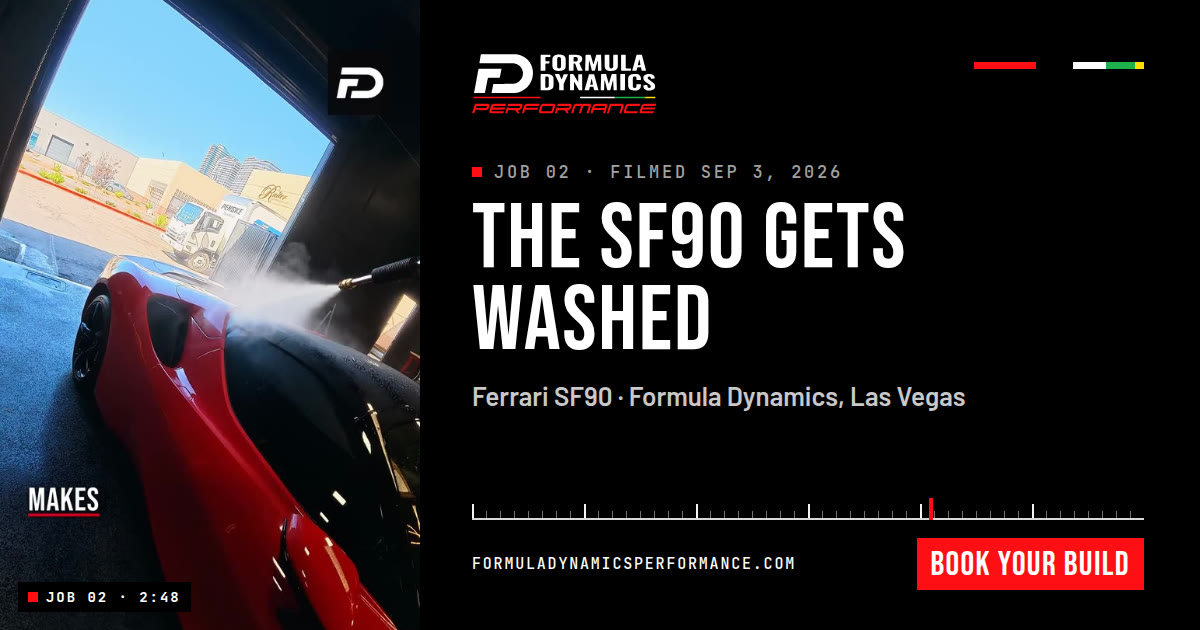
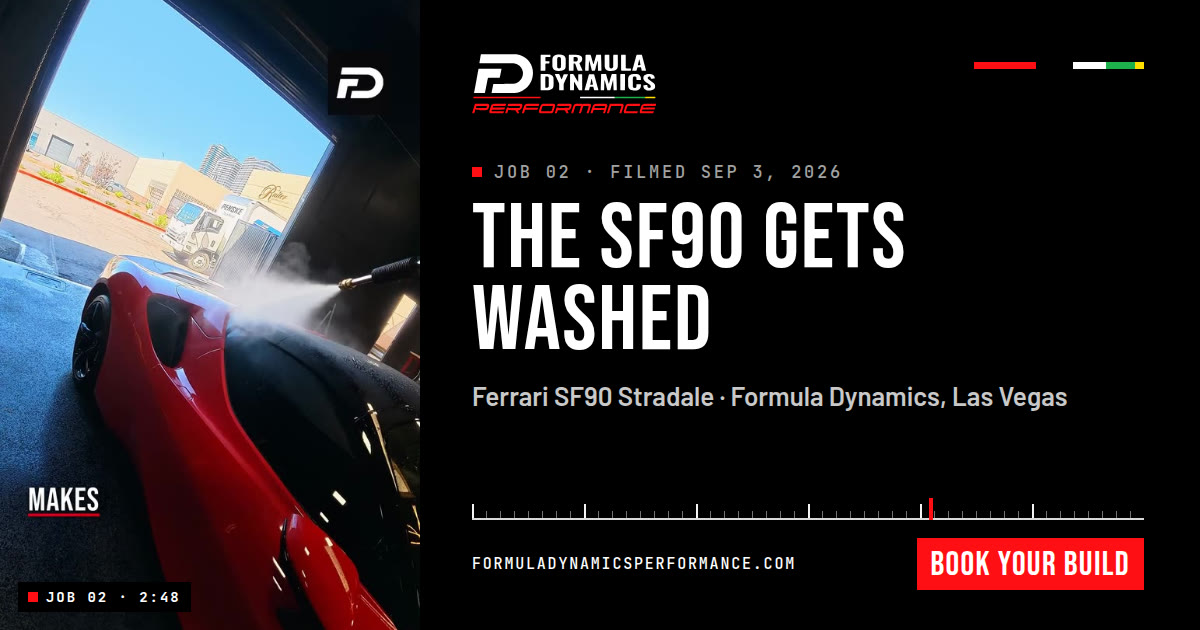
FD site: apply facts-floor fixes
- Job 06 summary: the taillights, OPF and factory exhaust work is on the F8 Spider, not the MC20
- Aventador ad: 'Lamborghini Aventador' (the frames don't confirm an S)
- Hero and meta: the filmed install is a Valvetronic valve controller on an F8 Spider, bumper off to test drive
- 'On the lift now' becomes 'Latest job' (no present-tense claim)
- Job 02 car is the SF90 Stradale (lower third); 'at our Las Vegas shop', since some footage is outside
- Share pages regenerated

Claude-Session: https://claude.ai/code/session_012ganLeoor9XkY3vQKz1FFQ

Changed region(s): [[0.4933, 0.6032, 0.8942, 0.6635]]

diff --git a/formula-dynamics/16-website/index.html b/formula-dynamics/16-website/index.html
@@ -4,19 +4,19 @@
 <meta charset="utf-8">
 <meta name="viewport" content="width=device-width,initial-scale=1,viewport-fit=cover">
 <title>Formula Dynamics · The Job Board · Las Vegas</title>
-<meta name="description" content="Watch an exhaust install in our Las Vegas shop from the first bolt to the test drive, or follow a tune or a lowering job, then book the same work for your car. Exotic and European performance specialists.">
+<meta name="description" content="Watch a Valvetronic valve controller go into a Ferrari F8 Spider at our Las Vegas shop, from bumper off to the test drive, or follow a tune or a lowering job in the bay, then book the same work for your car. Exotic and European performance specialists.">
 <link rel="canonical" href="https://formula-dynamics-job-board.onrender.com/">
 <meta property="og:type" content="website">
 <meta property="og:site_name" content="Formula Dynamics">
 <meta property="og:url" content="https://formula-dynamics-job-board.onrender.com/">
 <meta property="og:title" content="The Job Board · Formula Dynamics, Las Vegas">
-<meta property="og:description" content="Twelve jobs filmed in our Las Vegas shop. Watch the work, then book your build.">
+<meta property="og:description" content="Twelve jobs filmed at our Las Vegas shop. Watch the work, then book your build.">
 <meta property="og:image" content="https://formula-dynamics-job-board.onrender.com/media/share/series.jpg">
 <meta property="og:image:width" content="1200">
 <meta property="og:image:height" content="630">
 <meta name="twitter:card" content="summary_large_image">
 <meta name="twitter:title" content="The Job Board · Formula Dynamics, Las Vegas">
-<meta name="twitter:description" content="Twelve jobs filmed in our Las Vegas shop. Watch the work, then book your build.">
+<meta name="twitter:description" content="Twelve jobs filmed at our Las Vegas shop. Watch the work, then book your build.">
 <meta name="twitter:image" content="https://formula-dynamics-job-board.onrender.com/media/share/series.jpg">
 <meta name="theme-color" content="#000000">
 <link rel="icon" type="image/png" href="media/brand/icon-64.png">
@@ -658,7 +658,7 @@ footer ul a:hover{color:var(--red)}
       <div class="eyebrow"><span class="sq"></span>Exotic &amp; European performance specialists · Las Vegas</div>
       <h1 class="kin" id="hero-h">See the work <br>before you <br>book it</h1>
       <div class="bar" aria-hidden="true"></div>
-      <p>We film the jobs in our Las Vegas shop. Watch an exhaust install from the first bolt to the test drive, or follow a tune or a lowering job in the bay, then book the same work for your car.</p>
+      <p>We film the jobs at our Las Vegas shop. Watch a Valvetronic valve controller go into a Ferrari F8 Spider, from bumper off to the test drive, or follow a tune or a lowering job in the bay, then book the same work for your car.</p>
       <div class="ctas">
         <a class="btn" href="#book">Book your build</a>
         <a class="btn ghost" href="#watch-valve2" data-ep="latest"><svg viewBox="0 0 16 16"><path d="M4 2.5v11L13.5 8z"/></svg><span id="hero-watch">Watch job 12</span></a>
@@ -679,7 +679,7 @@ footer ul a:hover{color:var(--red)}
           <img id="lift-img" src="media/ep/valve2.jpg" alt="The blue Ferrari F8 Spider outside the shop, from Job 12">
           <video id="lift-vid" muted loop playsinline preload="none" aria-hidden="true"></video>
           <button class="play" type="button" data-ep="latest" aria-label="Play job 12, the full episode"><svg viewBox="0 0 16 16"><path d="M4 2.5v11L13.5 8z"/></svg></button>
-          <div class="onlift"><span class="sq"></span><span id="onlift">On the lift now · Job 12</span></div>
+          <div class="onlift"><span class="sq"></span><span id="onlift">Latest job · Job 12</span></div>
         </div>
       </div>
       <a class="tag" id="lift-tag" href="#watch-valve2" data-ep="latest"><small id="tag-s">JOB 12 · SEP 18 · 2:44</small><b id="tag-b">Ferrari F8</b><span id="tag-t">Valvetronic, part 2: the fix and the drive</span></a>
@@ -898,11 +898,11 @@ footer ul a:hover{color:var(--red)}
 {
 "EP":[
  {"k":"floor","no":"01","d":"Sep 1","car":"The new shop","t":"The floor goes down","len":"2:53","sec":173,"lane":"shop","tags":["Shop build"],"work":"The new shop floor","s":"The new shop's floor goes down tile by tile in red and black, then the lifts go in on top of it.","alt":"Scissor lifts on the new red and black floor","ch":[[2,"Wash bay done"],[22,"Tiles go down"],[40,"Laying the pattern"],[65,"The finished floor"],[84,"Lifts going in"],[109,"The lift is up"],[150,"Next: light tunnels"]]},
- {"k":"sf90","no":"02","d":"Sep 3","car":"Ferrari SF90","t":"The SF90 gets washed","len":"2:48","sec":168,"lane":"detail","tags":["Detail"],"work":"Wash","s":"A ceramic-coated SF90 washed in the new bay, then an Aston Martin V12 Vantage comes off the transporter.","alt":"Red Ferrari SF90 being rinsed in the bay","ch":[[3,"First wash setup"],[53,"Washing the SF90"],[93,"Ceramic makes it easy"],[120,"SF90 clean"],[137,"On the lift"],[142,"Aston delivery"],[164,"Off the ramps"]]},
+ {"k":"sf90","no":"02","d":"Sep 3","car":"Ferrari SF90 Stradale","t":"The SF90 gets washed","len":"2:48","sec":168,"lane":"detail","tags":["Detail"],"work":"Wash","s":"A ceramic-coated SF90 washed in the new bay, then an Aston Martin V12 Vantage comes off the transporter.","alt":"Red Ferrari SF90 being rinsed in the bay","ch":[[3,"First wash setup"],[53,"Washing the SF90"],[93,"Ceramic makes it easy"],[120,"SF90 clean"],[137,"On the lift"],[142,"Aston delivery"],[164,"Off the ramps"]]},
  {"k":"tune","no":"03","d":"Sep 4","car":"On the bench","t":"Wiring the tune","len":"2:48","sec":168,"lane":"tune","tags":["Tuning"],"work":"ECU harness","s":"An ECU harness wired and pinned by color at the bench, with a shop update on the way.","alt":"Technician holding an ECU at the bench","ch":[[3,"Detail cart"],[40,"Shop update"],[78,"At the bench"],[96,"Pinning by color"],[141,"In the bay"],[149,"On the limiter"],[164,"That feels insane"]]},
  {"k":"movein","no":"04","d":"Sep 5","car":"The new shop","t":"Moving everything in","len":"2:49","sec":169,"lane":"shop","tags":["Shop build"],"work":"Move-in day","s":"Inventory day: pallets on the forklift, the wall cleared and the racking going up.","alt":"Forklift moving pallets in the new shop","ch":[[3,"Inventory day"],[55,"On the forklift"],[78,"Moving pallets"],[110,"Clearing the wall"],[123,"Break"],[135,"Racking goes up"],[156,"Everything in"]]},
  {"k":"inventory","no":"05","d":"Sep 6","car":"The new shop","t":"Clearing the inventory","len":"2:50","sec":170,"lane":"shop","tags":["Shop build"],"work":"Racks and desks","s":"Cars keep getting worked on while the big racks and the desks go in and the inventory gets cleared.","alt":"Racks going up in the new shop","ch":[[3,"Shop update"],[20,"Working on cars"],[42,"The big racks"],[59,"Desks going in"],[98,"Clearing inventory"],[126,"Racks built"],[151,"Bay access"]]},
- {"k":"mc20","no":"06","d":"Sep 8","car":"MC20 + F8","t":"Unlocking the MC20","len":"2:49","sec":169,"lane":"tune","tags":["Tuning","Exhaust"],"work":"ECU and exhaust","s":"MC20 ECU work, the taillights and the OPF out, the factory exhaust off, and the iPE titanium on the floor.","alt":"Gold heat-wrapped iPE exhaust pieces on the floor","ch":[[3,"MC20 ECU"],[24,"Cracking the code"],[50,"Battery and ECU"],[75,"Taillights out"],[90,"The OPF comes out"],[121,"Factory exhaust off"],[135,"iPE titanium"],[152,"PPF and new kit"]]},
+ {"k":"mc20","no":"06","d":"Sep 8","car":"MC20 + F8","t":"Unlocking the MC20","len":"2:49","sec":169,"lane":"tune","tags":["Tuning","Exhaust"],"work":"ECU and exhaust","s":"MC20 ECU work, then the F8 Spider's taillights and OPF out, its factory exhaust off, and the iPE titanium on the floor.","alt":"Gold heat-wrapped iPE exhaust pieces on the floor","ch":[[3,"MC20 ECU"],[24,"Cracking the code"],[50,"Battery and ECU"],[75,"Taillights out"],[90,"The OPF comes out"],[121,"Factory exhaust off"],[135,"iPE titanium"],[152,"PPF and new kit"]]},
  {"k":"rangerover","no":"07","d":"Sep 9","car":"Range Rover Sport","t":"Lowering the Range Rover","len":"2:47","sec":167,"lane":"susp","tags":["Suspension"],"work":"Lowering links","s":"Lowering links measured at the bench, the old links out, then the height sensors and the rear links. The job isn't finished by the end.","alt":"Lowering link measured against a tape","ch":[[3,"Shop update"],[9,"Lowering links"],[44,"Measuring"],[67,"Links out"],[102,"Height sensors"],[121,"Rear links"],[135,"Access height"],[159,"One inch lower"]]},
  {"k":"stage2","no":"08","d":"Sep 10","car":"F8 + MC20","t":"F8 iPE and MC20 Stage 2","len":"2:47","sec":167,"lane":"exhaust","tags":["Exhaust","Tuning"],"work":"Exhaust and tune","s":"Three cars in the bay: an Aston Martin V12 Vantage, the F8 Spider with its iPE exhaust and the MC20's Stage 2.","alt":"Maserati MC20 in the bay","ch":[[5,"V12 Vantage"],[36,"Ferrari F8 Spider"],[79,"Maserati MC20"]]},
  {"k":"detail","no":"09","d":"Sep 16","car":"Maserati MC20","t":"MC20 detail day","len":"1:57","sec":117,"lane":"detail","tags":["Detail"],"work":"Detail","s":"A matte MC20 foamed and washed by hand in the bay, then out to the transporter.","alt":"Maserati MC20 under wash foam","ch":[[1,"Detail day"]],"nochap":true},
@@ -947,7 +947,7 @@ footer ul a:hover{color:var(--red)}
 ],
 "CATS":[["all","All parts"],["exhaust","Exhaust"],["aero","Aero & exterior"],["suspension","Suspension"],["brakes","Brakes"],["wheels","Wheels"],["electronics","Electronics"],["service","Service parts"],["lighting","Lighting"],["conversion","Conversion"]],
 "ADS":[
- {"id":"aventador-tune","svc":"Free ECU tune with a RYFT or Opus exhaust","car":"Lamborghini Aventador S","menu":"tune"},
+ {"id":"aventador-tune","svc":"Free ECU tune with a RYFT or Opus exhaust","car":"Lamborghini Aventador","menu":"tune"},
  {"id":"roma-tune","svc":"Free ECU tune with a RYFT or Opus exhaust","car":"Ferrari Roma","menu":"tune"},
  {"id":"sf90-annual","svc":"Annual service package","car":"Ferrari SF90","menu":"maint"},
  {"id":"f296-oil","svc":"Oil service","car":"Ferrari 296","menu":"maint"},
@@ -1078,7 +1078,7 @@ $("#menu-x").onclick=closeMenu;$$("#menu a").forEach(a=>a.addEventListener("clic
 (function(){
   const lift=$("#lift"),e=LATEST;
   $("#hero-watch").textContent="Watch job "+e.no;
-  $("#onlift").textContent="On the lift now · Job "+e.no;
+  $("#onlift").textContent="Latest job · Job "+e.no;
   $("#tag-s").textContent=`JOB ${e.no} · ${e.d.toUpperCase()} · ${e.len}`;
   $("#tag-b").textContent=e.car.replace(" Spider","");$("#tag-t").textContent=e.t;
   $("#lift-img").src=M+"ep/"+e.k+".jpg";

diff --git a/formula-dynamics/16-website/ep/mc20/index.html b/formula-dynamics/16-website/ep/mc20/index.html
@@ -4,24 +4,24 @@
 <meta charset="utf-8">
 <meta name="viewport" content="width=device-width,initial-scale=1,viewport-fit=cover">
 <title>Job 06: Unlocking the MC20 · Formula Dynamics</title>
-<meta name="description" content="MC20 ECU work, the taillights and the OPF out, the factory exhaust off, and the iPE titanium on the floor. Full episode, 2:49, filmed Sep 8, 2026, in our Las Vegas shop.">
+<meta name="description" content="MC20 ECU work, then the F8 Spider&#x27;s taillights and OPF out, its factory exhaust off, and the iPE titanium on the floor. Full episode, 2:49, filmed Sep 8, 2026, at our Las Vegas shop.">
 <link rel="canonical" href="https://formula-dynamics-job-board.onrender.com/ep/mc20/">
 <meta property="og:type" content="video.episode">
 <meta property="og:site_name" content="Formula Dynamics">
 <meta property="og:url" content="https://formula-dynamics-job-board.onrender.com/ep/mc20/">
 <meta property="og:title" content="Job 06: Unlocking the MC20 · Formula Dynamics">
-<meta property="og:description" content="MC20 ECU work, the taillights and the OPF out, the factory exhaust off, and the iPE titanium on the floor. Full episode, 2:49, filmed Sep 8, 2026, in our Las Vegas shop.">
+<meta property="og:description" content="MC20 ECU work, then the F8 Spider&#x27;s taillights and OPF out, its factory exhaust off, and the iPE titanium on the floor. Full episode, 2:49, filmed Sep 8, 2026, at our Las Vegas shop.">
 <meta property="og:image" content="https://formula-dynamics-job-board.onrender.com/media/share/mc20.jpg">
 <meta property="og:image:width" content="1200">
 <meta property="og:image:height" content="630">
 <meta property="og:image:alt" content="Job 06 on the Formula Dynamics job board: Unlocking the MC20">
 <meta name="twitter:card" content="summary_large_image">
 <meta name="twitter:title" content="Job 06: Unlocking the MC20 · Formula Dynamics">
-<meta name="twitter:description" content="MC20 ECU work, the taillights and the OPF out, the factory exhaust off, and the iPE titanium on the floor. Full episode, 2:49, filmed Sep 8, 2026, in our Las Vegas shop.">
+<meta name="twitter:description" content="MC20 ECU work, then the F8 Spider&#x27;s taillights and OPF out, its factory exhaust off, and the iPE titanium on the floor. Full episode, 2:49, filmed Sep 8, 2026, at our Las Vegas shop.">
 <meta name="twitter:image" content="https://formula-dynamics-job-board.onrender.com/media/share/mc20.jpg">
 <meta name="theme-color" content="#000000">
 <link rel="icon" type="image/png" href="../../media/brand/icon-64.png">
-<script type="application/ld+json">{"@context": "https://schema.org", "@type": "VideoObject", "name": "Job 06: Unlocking the MC20", "description": "MC20 ECU work, the taillights and the OPF out, the factory exhaust off, and the iPE titanium on the floor.", "thumbnailUrl": ["https://formula-dynamics-job-board.onrender.com/media/ep/mc20.jpg", "https://formula-dynamics-job-board.onrender.com/media/share/mc20.jpg"], "uploadDate": "2026-09-08", "duration": "PT2M49S", "contentUrl": "https://formula-dynamics-job-board.onrender.com/media/ep/mc20.mp4", "embedUrl": "https://formula-dynamics-job-board.onrender.com/#watch-mc20", "publisher": {"@type": "Organization", "name": "Formula Dynamics Performance"}}</script>
+<script type="application/ld+json">{"@context": "https://schema.org", "@type": "VideoObject", "name": "Job 06: Unlocking the MC20", "description": "MC20 ECU work, then the F8 Spider's taillights and OPF out, its factory exhaust off, and the iPE titanium on the floor.", "thumbnailUrl": ["https://formula-dynamics-job-board.onrender.com/media/ep/mc20.jpg", "https://formula-dynamics-job-board.onrender.com/media/share/mc20.jpg"], "uploadDate": "2026-09-08", "duration": "PT2M49S", "contentUrl": "https://formula-dynamics-job-board.onrender.com/media/ep/mc20.mp4", "embedUrl": "https://formula-dynamics-job-board.onrender.com/#watch-mc20", "publisher": {"@type": "Organization", "name": "Formula Dynamics Performance"}}</script>
 <script>location.replace("../../#watch-mc20")</script>
 <meta http-equiv="refresh" content="1; url=../../#watch-mc20">
 <style>
@@ -40,7 +40,7 @@ a{display:inline-block;margin-top:14px;background:#FE0F13;color:#fff;text-decora
 <img src="../../media/ep/mc20.jpg" alt="">
 <small>Formula Dynamics · Job 06 of 12</small>
 <h1>Unlocking the MC20</h1>
-<p>MC20 ECU work, the taillights and the OPF out, the factory exhaust off, and the iPE titanium on the floor.</p>
+<p>MC20 ECU work, then the F8 Spider&#x27;s taillights and OPF out, its factory exhaust off, and the iPE titanium on the floor.</p>
 <a href="../../#watch-mc20">Watch the full episode</a>
 </main>
 </body>

diff --git a/formula-dynamics/16-website/ep/rangerover/index.html b/formula-dynamics/16-website/ep/rangerover/index.html
@@ -4,20 +4,20 @@
 <meta charset="utf-8">
 <meta name="viewport" content="width=device-width,initial-scale=1,viewport-fit=cover">
 <title>Job 07: Lowering the Range Rover · Formula Dynamics</title>
-<meta name="description" content="Lowering links measured at the bench, the old links out, then the height sensors and the rear links. The job isn&#x27;t finished by the end. Full episode, 2:47, filmed Sep 9, 2026, in our Las Vegas shop.">
+<meta name="description" content="Lowering links measured at the bench, the old links out, then the height sensors and the rear links. The job isn&#x27;t finished by the end. Full episode, 2:47, filmed Sep 9, 2026, at our Las Vegas shop.">
 <link rel="canonical" href="https://formula-dynamics-job-board.onrender.com/ep/rangerover/">
 <meta property="og:type" content="video.episode">
 <meta property="og:site_name" content="Formula Dynamics">
 <meta property="og:url" content="https://formula-dynamics-job-board.onrender.com/ep/rangerover/">
 <meta property="og:title" content="Job 07: Lowering the Range Rover · Formula Dynamics">
-<meta property="og:description" content="Lowering links measured at the bench, the old links out, then the height sensors and the rear links. The job isn&#x27;t finished by the end. Full episode, 2:47, filmed Sep 9, 2026, in our Las Vegas shop.">
+<meta property="og:description" content="Lowering links measured at the bench, the old links out, then the height sensors and the rear links. The job isn&#x27;t finished by the end. Full episode, 2:47, filmed Sep 9, 2026, at our Las Vegas shop.">
 <meta property="og:image" content="https://formula-dynamics-job-board.onrender.com/media/share/rangerover.jpg">
 <meta property="og:image:width" content="1200">
 <meta property="og:image:height" content="630">
 <meta property="og:image:alt" content="Job 07 on the Formula Dynamics job board: Lowering the Range Rover">
 <meta name="twitter:card" content="summary_large_image">
 <meta name="twitter:title" content="Job 07: Lowering the Range Rover · Formula Dynamics">
-<meta name="twitter:description" content="Lowering links measured at the bench, the old links out, then the height sensors and the rear links. The job isn&#x27;t finished by the end. Full episode, 2:47, filmed Sep 9, 2026, in our Las Vegas shop.">
+<meta name="twitter:description" content="Lowering links measured at the bench, the old links out, then the height sensors and the rear links. The job isn&#x27;t finished by the end. Full episode, 2:47, filmed Sep 9, 2026, at our Las Vegas shop.">
 <meta name="twitter:image" content="https://formula-dynamics-job-board.onrender.com/media/share/rangerover.jpg">
 <meta name="theme-color" content="#000000">
 <link rel="icon" type="image/png" href="../../media/brand/icon-64.png">

diff --git a/formula-dynamics/16-website/ep/stage2/index.html b/formula-dynamics/16-website/ep/stage2/index.html
@@ -4,20 +4,20 @@
 <meta charset="utf-8">
 <meta name="viewport" content="width=device-width,initial-scale=1,viewport-fit=cover">
 <title>Job 08: F8 iPE and MC20 Stage 2 · Formula Dynamics</title>
-<meta name="description" content="Three cars in the bay: an Aston Martin V12 Vantage, the F8 Spider with its iPE exhaust and the MC20&#x27;s Stage 2. Full episode, 2:47, filmed Sep 10, 2026, in our Las Vegas shop.">
+<meta name="description" content="Three cars in the bay: an Aston Martin V12 Vantage, the F8 Spider with its iPE exhaust and the MC20&#x27;s Stage 2. Full episode, 2:47, filmed Sep 10, 2026, at our Las Vegas shop.">
 <link rel="canonical" href="https://formula-dynamics-job-board.onrender.com/ep/stage2/">
 <meta property="og:type" content="video.episode">
 <meta property="og:site_name" content="Formula Dynamics">
 <meta property="og:url" content="https://formula-dynamics-job-board.onrender.com/ep/stage2/">
 <meta property="og:title" content="Job 08: F8 iPE and MC20 Stage 2 · Formula Dynamics">
-<meta property="og:description" content="Three cars in the bay: an Aston Martin V12 Vantage, the F8 Spider with its iPE exhaust and the MC20&#x27;s Stage 2. Full episode, 2:47, filmed Sep 10, 2026, in our Las Vegas shop.">
+<meta property="og:description" content="Three cars in the bay: an Aston Martin V12 Vantage, the F8 Spider with its iPE exhaust and the MC20&#x27;s Stage 2. Full episode, 2:47, filmed Sep 10, 2026, at our Las Vegas shop.">
 <meta property="og:image" content="https://formula-dynamics-job-board.onrender.com/media/share/stage2.jpg">
 <meta property="og:image:width" content="1200">
 <meta property="og:image:height" content="630">
 <meta property="og:image:alt" content="Job 08 on the Formula Dynamics job board: F8 iPE and MC20 Stage 2">
 <meta name="twitter:card" content="summary_large_image">
 <meta name="twitter:title" content="Job 08: F8 iPE and MC20 Stage 2 · Formula Dynamics">
-<meta name="twitter:description" content="Three cars in the bay: an Aston Martin V12 Vantage, the F8 Spider with its iPE exhaust and the MC20&#x27;s Stage 2. Full episode, 2:47, filmed Sep 10, 2026, in our Las Vegas shop.">
+<meta name="twitter:description" content="Three cars in the bay: an Aston Martin V12 Vantage, the F8 Spider with its iPE exhaust and the MC20&#x27;s Stage 2. Full episode, 2:47, filmed Sep 10, 2026, at our Las Vegas shop.">
 <meta name="twitter:image" content="https://formula-dynamics-job-board.onrender.com/media/share/stage2.jpg">
 <meta name="theme-color" content="#000000">
 <link rel="icon" type="image/png" href="../../media/brand/icon-64.png">

diff --git a/formula-dynamics/16-website/ep/sf90/index.html b/formula-dynamics/16-website/ep/sf90/index.html
@@ -4,20 +4,20 @@
 <meta charset="utf-8">
 <meta name="viewport" content="width=device-width,initial-scale=1,viewport-fit=cover">
 <title>Job 02: The SF90 gets washed · Formula Dynamics</title>
-<meta name="description" content="A ceramic-coated SF90 washed in the new bay, then an Aston Martin V12 Vantage comes off the transporter. Full episode, 2:48, filmed Sep 3, 2026, in our Las Vegas shop.">
+<meta name="description" content="A ceramic-coated SF90 washed in the new bay, then an Aston Martin V12 Vantage comes off the transporter. Full episode, 2:48, filmed Sep 3, 2026, at our Las Vegas shop.">
 <link rel="canonical" href="https://formula-dynamics-job-board.onrender.com/ep/sf90/">
 <meta property="og:type" content="video.episode">
 <meta property="og:site_name" content="Formula Dynamics">
 <meta property="og:url" content="https://formula-dynamics-job-board.onrender.com/ep/sf90/">
 <meta property="og:title" content="Job 02: The SF90 gets washed · Formula Dynamics">
-<meta property="og:description" content="A ceramic-coated SF90 washed in the new bay, then an Aston Martin V12 Vantage comes off the transporter. Full episode, 2:48, filmed Sep 3, 2026, in our Las Vegas shop.">
+<meta property="og:description" content="A ceramic-coated SF90 washed in the new bay, then an Aston Martin V12 Vantage comes off the transporter. Full episode, 2:48, filmed Sep 3, 2026, at our Las Vegas shop.">
 <meta property="og:image" content="https://formula-dynamics-job-board.onrender.com/media/share/sf90.jpg">
 <meta property="og:image:width" content="1200">
 <meta property="og:image:height" content="630">
 <meta property="og:image:alt" content="Job 02 on the Formula Dynamics job board: The SF90 gets washed">
 <meta name="twitter:card" content="summary_large_image">
 <meta name="twitter:title" content="Job 02: The SF90 gets washed · Formula Dynamics">
-<meta name="twitter:description" content="A ceramic-coated SF90 washed in the new bay, then an Aston Martin V12 Vantage comes off the transporter. Full episode, 2:48, filmed Sep 3, 2026, in our Las Vegas shop.">
+<meta name="twitter:description" content="A ceramic-coated SF90 washed in the new bay, then an Aston Martin V12 Vantage comes off the transporter. Full episode, 2:48, filmed Sep 3, 2026, at our Las Vegas shop.">
 <meta name="twitter:image" content="https://formula-dynamics-job-board.onrender.com/media/share/sf90.jpg">
 <meta name="theme-color" content="#000000">
 <link rel="icon" type="image/png" href="../../media/brand/icon-64.png">

diff --git a/formula-dynamics/16-website/ep/inventory/index.html b/formula-dynamics/16-website/ep/inventory/index.html
@@ -4,20 +4,20 @@
 <meta charset="utf-8">
 <meta name="viewport" content="width=device-width,initial-scale=1,viewport-fit=cover">
 <title>Job 05: Clearing the inventory · Formula Dynamics</title>
-<meta name="description" content="Cars keep getting worked on while the big racks and the desks go in and the inventory gets cleared. Full episode, 2:50, filmed Sep 6, 2026, in our Las Vegas shop.">
+<meta name="description" content="Cars keep getting worked on while the big racks and the desks go in and the inventory gets cleared. Full episode, 2:50, filmed Sep 6, 2026, at our Las Vegas shop.">
 <link rel="canonical" href="https://formula-dynamics-job-board.onrender.com/ep/inventory/">
 <meta property="og:type" content="video.episode">
 <meta property="og:site_name" content="Formula Dynamics">
 <meta property="og:url" content="https://formula-dynamics-job-board.onrender.com/ep/inventory/">
 <meta property="og:title" content="Job 05: Clearing the inventory · Formula Dynamics">
-<meta property="og:description" content="Cars keep getting worked on while the big racks and the desks go in and the inventory gets cleared. Full episode, 2:50, filmed Sep 6, 2026, in our Las Vegas shop.">
+<meta property="og:description" content="Cars keep getting worked on while the big racks and the desks go in and the inventory gets cleared. Full episode, 2:50, filmed Sep 6, 2026, at our Las Vegas shop.">
 <meta property="og:image" content="https://formula-dynamics-job-board.onrender.com/media/share/inventory.jpg">
 <meta property="og:image:width" content="1200">
 <meta property="og:image:height" content="630">
 <meta property="og:image:alt" content="Job 05 on the Formula Dynamics job board: Clearing the inventory">
 <meta name="twitter:card" content="summary_large_image">
 <meta name="twitter:title" content="Job 05: Clearing the inventory · Formula Dynamics">
-<meta name="twitter:description" content="Cars keep getting worked on while the big racks and the desks go in and the inventory gets cleared. Full episode, 2:50, filmed Sep 6, 2026, in our Las Vegas shop.">
+<meta name="twitter:description" content="Cars keep getting worked on while the big racks and the desks go in and the inventory gets cleared. Full episode, 2:50, filmed Sep 6, 2026, at our Las Vegas shop.">
 <meta name="twitter:image" content="https://formula-dynamics-job-board.onrender.com/media/share/inventory.jpg">
 <meta name="theme-color" content="#000000">
 <link rel="icon" type="image/png" href="../../media/brand/icon-64.png">

diff --git a/formula-dynamics/16-website/ep/valve1/index.html b/formula-dynamics/16-website/ep/valve1/index.html
@@ -4,20 +4,20 @@
 <meta charset="utf-8">
 <meta name="viewport" content="width=device-width,initial-scale=1,viewport-fit=cover">
 <title>Job 11: Valvetronic, part 1: the install · Formula Dynamics</title>
-<meta name="description" content="The valve controller goes into the F8 Spider: rear bumper off, actuators wired, first start. Full episode, 2:50, filmed Sep 18, 2026, in our Las Vegas shop.">
+<meta name="description" content="The valve controller goes into the F8 Spider: rear bumper off, actuators wired, first start. Full episode, 2:50, filmed Sep 18, 2026, at our Las Vegas shop.">
 <link rel="canonical" href="https://formula-dynamics-job-board.onrender.com/ep/valve1/">
 <meta property="og:type" content="video.episode">
 <meta property="og:site_name" content="Formula Dynamics">
 <meta property="og:url" content="https://formula-dynamics-job-board.onrender.com/ep/valve1/">
 <meta property="og:title" content="Job 11: Valvetronic, part 1: the install · Formula Dynamics">
-<meta property="og:description" content="The valve controller goes into the F8 Spider: rear bumper off, actuators wired, first start. Full episode, 2:50, filmed Sep 18, 2026, in our Las Vegas shop.">
+<meta property="og:description" content="The valve controller goes into the F8 Spider: rear bumper off, actuators wired, first start. Full episode, 2:50, filmed Sep 18, 2026, at our Las Vegas shop.">
 <meta property="og:image" content="https://formula-dynamics-job-board.onrender.com/media/share/valve1.jpg">
 <meta property="og:image:width" content="1200">
 <meta property="og:image:height" content="630">
 <meta property="og:image:alt" content="Job 11 on the Formula Dynamics job board: Valvetronic, part 1: the install">
 <meta name="twitter:card" content="summary_large_image">
 <meta name="twitter:title" content="Job 11: Valvetronic, part 1: the install · Formula Dynamics">
-<meta name="twitter:description" content="The valve controller goes into the F8 Spider: rear bumper off, actuators wired, first start. Full episode, 2:50, filmed Sep 18, 2026, in our Las Vegas shop.">
+<meta name="twitter:description" content="The valve controller goes into the F8 Spider: rear bumper off, actuators wired, first start. Full episode, 2:50, filmed Sep 18, 2026, at our Las Vegas shop.">
 <meta name="twitter:image" content="https://formula-dynamics-job-board.onrender.com/media/share/valve1.jpg">
 <meta name="theme-color" content="#000000">
 <link rel="icon" type="image/png" href="../../media/brand/icon-64.png">

diff --git a/formula-dynamics/16-website/ep/floor/index.html b/formula-dynamics/16-website/ep/floor/index.html
@@ -4,20 +4,20 @@
 <meta charset="utf-8">
 <meta name="viewport" content="width=device-width,initial-scale=1,viewport-fit=cover">
 <title>Job 01: The floor goes down · Formula Dynamics</title>
-<meta name="description" content="The new shop&#x27;s floor goes down tile by tile in red and black, then the lifts go in on top of it. Full episode, 2:53, filmed Sep 1, 2026, in our Las Vegas shop.">
+<meta name="description" content="The new shop&#x27;s floor goes down tile by tile in red and black, then the lifts go in on top of it. Full episode, 2:53, filmed Sep 1, 2026, at our Las Vegas shop.">
 <link rel="canonical" href="https://formula-dynamics-job-board.onrender.com/ep/floor/">
 <meta property="og:type" content="video.episode">
 <meta property="og:site_name" content="Formula Dynamics">
 <meta property="og:url" content="https://formula-dynamics-job-board.onrender.com/ep/floor/">
 <meta property="og:title" content="Job 01: The floor goes down · Formula Dynamics">
-<meta property="og:description" content="The new shop&#x27;s floor goes down tile by tile in red and black, then the lifts go in on top of it. Full episode, 2:53, filmed Sep 1, 2026, in our Las Vegas shop.">
+<meta property="og:description" content="The new shop&#x27;s floor goes down tile by tile in red and black, then the lifts go in on top of it. Full episode, 2:53, filmed Sep 1, 2026, at our Las Vegas shop.">
 <meta property="og:image" content="https://formula-dynamics-job-board.onrender.com/media/share/floor.jpg">
 <meta property="og:image:width" content="1200">
 <meta property="og:image:height" content="630">
 <meta property="og:image:alt" content="Job 01 on the Formula Dynamics job board: The floor goes down">
 <meta name="twitter:card" content="summary_large_image">
 <meta name="twitter:title" content="Job 01: The floor goes down · Formula Dynamics">
-<meta name="twitter:description" content="The new shop&#x27;s floor goes down tile by tile in red and black, then the lifts go in on top of it. Full episode, 2:53, filmed Sep 1, 2026, in our Las Vegas shop.">
+<meta name="twitter:description" content="The new shop&#x27;s floor goes down tile by tile in red and black, then the lifts go in on top of it. Full episode, 2:53, filmed Sep 1, 2026, at our Las Vegas shop.">
 <meta name="twitter:image" content="https://formula-dynamics-job-board.onrender.com/media/share/floor.jpg">
 <meta name="theme-color" content="#000000">
 <link rel="icon" type="image/png" href="../../media/brand/icon-64.png">

diff --git a/formula-dynamics/16-website/ep/valve2/index.html b/formula-dynamics/16-website/ep/valve2/index.html
@@ -4,20 +4,20 @@
 <meta charset="utf-8">
 <meta name="viewport" content="width=device-width,initial-scale=1,viewport-fit=cover">
 <title>Job 12: Valvetronic, part 2: the fix and the drive · Formula Dynamics</title>
-<meta name="description" content="One actuator live, the fix explained, the car back on the ground, and the drive. Full episode, 2:44, filmed Sep 18, 2026, in our Las Vegas shop.">
+<meta name="description" content="One actuator live, the fix explained, the car back on the ground, and the drive. Full episode, 2:44, filmed Sep 18, 2026, at our Las Vegas shop.">
 <link rel="canonical" href="https://formula-dynamics-job-board.onrender.com/ep/valve2/">
 <meta property="og:type" content="video.episode">
 <meta property="og:site_name" content="Formula Dynamics">
 <meta property="og:url" content="https://formula-dynamics-job-board.onrender.com/ep/valve2/">
 <meta property="og:title" content="Job 12: Valvetronic, part 2: the fix and the drive · Formula Dynamics">
-<meta property="og:description" content="One actuator live, the fix explained, the car back on the ground, and the drive. Full episode, 2:44, filmed Sep 18, 2026, in our Las Vegas shop.">
+<meta property="og:description" content="One actuator live, the fix explained, the car back on the ground, and the drive. Full episode, 2:44, filmed Sep 18, 2026, at our Las Vegas shop.">
 <meta property="og:image" content="https://formula-dynamics-job-board.onrender.com/media/share/valve2.jpg">
 <meta property="og:image:width" content="1200">
 <meta property="og:image:height" content="630">
 <meta property="og:image:alt" content="Job 12 on the Formula Dynamics job board: Valvetronic, part 2: the fix and the drive">
 <meta name="twitter:card" content="summary_large_image">
 <meta name="twitter:title" content="Job 12: Valvetronic, part 2: the fix and the drive · Formula Dynamics">
-<meta name="twitter:description" content="One actuator live, the fix explained, the car back on the ground, and the drive. Full episode, 2:44, filmed Sep 18, 2026, in our Las Vegas shop.">
+<meta name="twitter:description" content="One actuator live, the fix explained, the car back on the ground, and the drive. Full episode, 2:44, filmed Sep 18, 2026, at our Las Vegas shop.">
 <meta name="twitter:image" content="https://formula-dynamics-job-board.onrender.com/media/share/valve2.jpg">
 <meta name="theme-color" content="#000000">
 <link rel="icon" type="image/png" href="../../media/brand/icon-64.png">

diff --git a/formula-dynamics/16-website/ep/movein/index.html b/formula-dynamics/16-website/ep/movein/index.html
@@ -4,20 +4,20 @@
 <meta charset="utf-8">
 <meta name="viewport" content="width=device-width,initial-scale=1,viewport-fit=cover">
 <title>Job 04: Moving everything in · Formula Dynamics</title>
-<meta name="description" content="Inventory day: pallets on the forklift, the wall cleared and the racking going up. Full episode, 2:49, filmed Sep 5, 2026, in our Las Vegas shop.">
+<meta name="description" content="Inventory day: pallets on the forklift, the wall cleared and the racking going up. Full episode, 2:49, filmed Sep 5, 2026, at our Las Vegas shop.">
 <link rel="canonical" href="https://formula-dynamics-job-board.onrender.com/ep/movein/">
 <meta property="og:type" content="video.episode">
 <meta property="og:site_name" content="Formula Dynamics">
 <meta property="og:url" content="https://formula-dynamics-job-board.onrender.com/ep/movein/">
 <meta property="og:title" content="Job 04: Moving everything in · Formula Dynamics">
-<meta property="og:description" content="Inventory day: pallets on the forklift, the wall cleared and the racking going up. Full episode, 2:49, filmed Sep 5, 2026, in our Las Vegas shop.">
+<meta property="og:description" content="Inventory day: pallets on the forklift, the wall cleared and the racking going up. Full episode, 2:49, filmed Sep 5, 2026, at our Las Vegas shop.">
 <meta property="og:image" content="https://formula-dynamics-job-board.onrender.com/media/share/movein.jpg">
 <meta property="og:image:width" content="1200">
 <meta property="og:image:height" content="630">
 <meta property="og:image:alt" content="Job 04 on the Formula Dynamics job board: Moving everything in">
 <meta name="twitter:card" content="summary_large_image">
 <meta name="twitter:title" content="Job 04: Moving everything in · Formula Dynamics">
-<meta name="twitter:description" content="Inventory day: pallets on the forklift, the wall cleared and the racking going up. Full episode, 2:49, filmed Sep 5, 2026, in our Las Vegas shop.">
+<meta name="twitter:description" content="Inventory day: pallets on the forklift, the wall cleared and the racking going up. Full episode, 2:49, filmed Sep 5, 2026, at our Las Vegas shop.">
 <meta name="twitter:image" content="https://formula-dynamics-job-board.onrender.com/media/share/movein.jpg">
 <meta name="theme-color" content="#000000">
 <link rel="icon" type="image/png" href="../../media/brand/icon-64.png">

diff --git a/formula-dynamics/16-website/ep/tune/index.html b/formula-dynamics/16-website/ep/tune/index.html
@@ -4,20 +4,20 @@
 <meta charset="utf-8">
 <meta name="viewport" content="width=device-width,initial-scale=1,viewport-fit=cover">
 <title>Job 03: Wiring the tune · Formula Dynamics</title>
-<meta name="description" content="An ECU harness wired and pinned by color at the bench, with a shop update on the way. Full episode, 2:48, filmed Sep 4, 2026, in our Las Vegas shop.">
+<meta name="description" content="An ECU harness wired and pinned by color at the bench, with a shop update on the way. Full episode, 2:48, filmed Sep 4, 2026, at our Las Vegas shop.">
 <link rel="canonical" href="https://formula-dynamics-job-board.onrender.com/ep/tune/">
 <meta property="og:type" content="video.episode">
 <meta property="og:site_name" content="Formula Dynamics">
 <meta property="og:url" content="https://formula-dynamics-job-board.onrender.com/ep/tune/">
 <meta property="og:title" content="Job 03: Wiring the tune · Formula Dynamics">
-<meta property="og:description" content="An ECU harness wired and pinned by color at the bench, with a shop update on the way. Full episode, 2:48, filmed Sep 4, 2026, in our Las Vegas shop.">
+<meta property="og:description" content="An ECU harness wired and pinned by color at the bench, with a shop update on the way. Full episode, 2:48, filmed Sep 4, 2026, at our Las Vegas shop.">
 <meta property="og:image" content="https://formula-dynamics-job-board.onrender.com/media/share/tune.jpg">
 <meta property="og:image:width" content="1200">
 <meta property="og:image:height" content="630">
 <meta property="og:image:alt" content="Job 03 on the Formula Dynamics job board: Wiring the tune">
 <meta name="twitter:card" content="summary_large_image">
 <meta name="twitter:title" content="Job 03: Wiring the tune · Formula Dynamics">
-<meta name="twitter:description" content="An ECU harness wired and pinned by color at the bench, with a shop update on the way. Full episode, 2:48, filmed Sep 4, 2026, in our Las Vegas shop.">
+<meta name="twitter:description" content="An ECU harness wired and pinned by color at the bench, with a shop update on the way. Full episode, 2:48, filmed Sep 4, 2026, at our Las Vegas shop.">
 <meta name="twitter:image" content="https://formula-dynamics-job-board.onrender.com/media/share/tune.jpg">
 <meta name="theme-color" content="#000000">
 <link rel="icon" type="image/png" href="../../media/brand/icon-64.png">

diff --git a/formula-dynamics/16-website/ep/detail/index.html b/formula-dynamics/16-website/ep/detail/index.html
@@ -4,20 +4,20 @@
 <meta charset="utf-8">
 <meta name="viewport" content="width=device-width,initial-scale=1,viewport-fit=cover">
 <title>Job 09: MC20 detail day · Formula Dynamics</title>
-<meta name="description" content="A matte MC20 foamed and washed by hand in the bay, then out to the transporter. Full episode, 1:57, filmed Sep 16, 2026, in our Las Vegas shop.">
+<meta name="description" content="A matte MC20 foamed and washed by hand in the bay, then out to the transporter. Full episode, 1:57, filmed Sep 16, 2026, at our Las Vegas shop.">
 <link rel="canonical" href="https://formula-dynamics-job-board.onrender.com/ep/detail/">
 <meta property="og:type" content="video.episode">
 <meta property="og:site_name" content="Formula Dynamics">
 <meta property="og:url" content="https://formula-dynamics-job-board.onrender.com/ep/detail/">
 <meta property="og:title" content="Job 09: MC20 detail day · Formula Dynamics">
-<meta property="og:description" content="A matte MC20 foamed and washed by hand in the bay, then out to the transporter. Full episode, 1:57, filmed Sep 16, 2026, in our Las Vegas shop.">
+<meta property="og:description" content="A matte MC20 foamed and washed by hand in the bay, then out to the transporter. Full episode, 1:57, filmed Sep 16, 2026, at our Las Vegas shop.">
 <meta property="og:image" content="https://formula-dynamics-job-board.onrender.com/media/share/detail.jpg">
 <meta property="og:image:width" content="1200">
 <meta property="og:image:height" content="630">
 <meta property="og:image:alt" content="Job 09 on the Formula Dynamics job board: MC20 detail day">
 <meta name="twitter:card" content="summary_large_image">
 <meta name="twitter:title" content="Job 09: MC20 detail day · Formula Dynamics">
-<meta name="twitter:description" content="A matte MC20 foamed and washed by hand in the bay, then out to the transporter. Full episode, 1:57, filmed Sep 16, 2026, in our Las Vegas shop.">
+<meta name="twitter:description" content="A matte MC20 foamed and washed by hand in the bay, then out to the transporter. Full episode, 1:57, filmed Sep 16, 2026, at our Las Vegas shop.">
 <meta name="twitter:image" content="https://formula-dynamics-job-board.onrender.com/media/share/detail.jpg">
 <meta name="theme-color" content="#000000">
 <link rel="icon" type="image/png" href="../../media/brand/icon-64.png">
